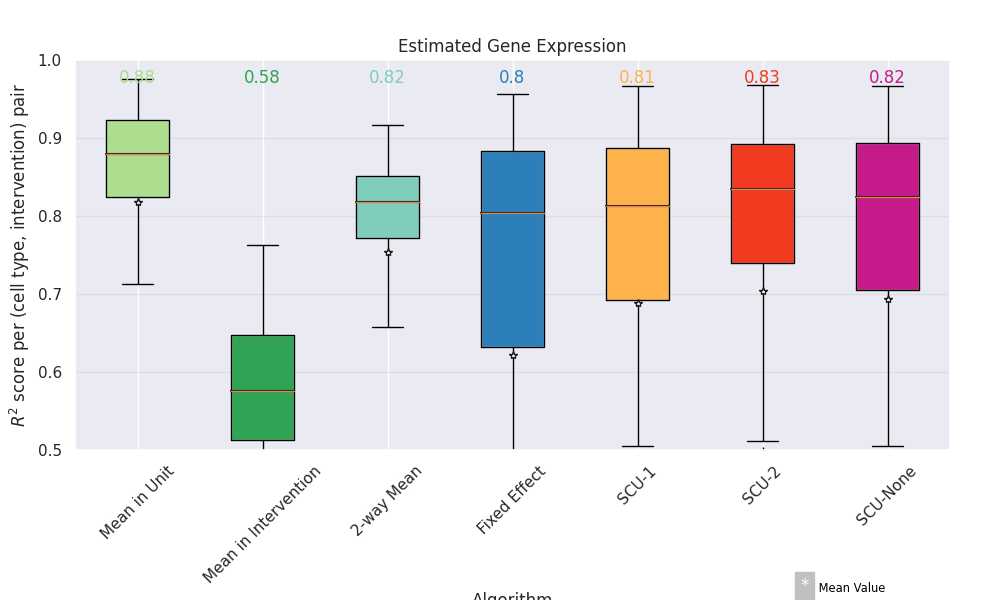
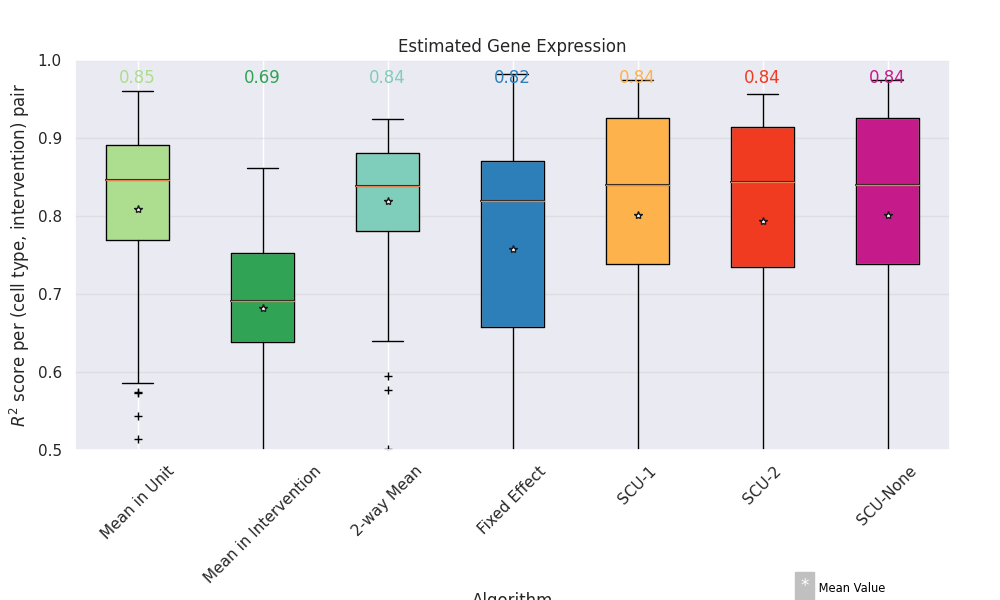
minor

diff --git a/src/algorithms2.py b/src/algorithms2.py
@@ -22,8 +22,10 @@ def impute_unit_mean(df, targets: pd.MultiIndex):
     targets = targets.sortlevel('unit')[0]
     units = Counter(targets.get_level_values('unit'))
     unit_means = df.groupby(level='unit').mean()
+    # if any target units *don't* have any samples in `df`, then use the average over all cells
     unit_means = fill_missing_means(unit_means, df.mean(), set(units) - set(unit_means.index))
 
+    # build an array to hold the correct number of copies of each unit mean
     imputed_data = np.zeros((len(targets), df.shape[1]))
     ix = 0
     for unit, num_ivs in units.items():
@@ -31,7 +33,7 @@ def impute_unit_mean(df, targets: pd.MultiIndex):
         ix += num_ivs
 
     imputed_df = pd.DataFrame(imputed_data, index=targets, columns=df.columns)
-    imputed_df.update(df)
+    # imputed_df.update(df)
 
     imputed_df.sort_index(inplace=True)
     return imputed_df
@@ -50,7 +52,7 @@ def impute_intervention_mean(df, targets: pd.MultiIndex):
         ix += num_units
 
     imputed_df = pd.DataFrame(imputed_data, index=targets, columns=df.columns)
-    imputed_df.update(df)
+    # imputed_df.update(df)
 
     imputed_df.sort_index(inplace=True)
     return imputed_df

diff --git a/evaluation/vary_perturbation_block.py b/evaluation/vary_perturbation_block.py
@@ -6,8 +6,8 @@ lp = LineProfiler()
 algs = []
 
 
-for pert_start in [0]:
-    pm = PredictionManager(0, 10, pert_start, pert_start+20, name='level2_common')
+for pert_start in [100, 500, 1000]:
+    pm = PredictionManager(0, None, pert_start, pert_start+100, name='level2_common')
     pm.predict(impute_unit_mean)
     pm.predict(impute_intervention_mean)
     pm.predict(impute_two_way_mean)

diff --git a/evaluation/helpers/prediction_manager2.py b/evaluation/helpers/prediction_manager2.py
@@ -89,7 +89,6 @@ class PredictionManager:
                     targets = self.gene_expression_df.iloc[test_ixs].index
                     df = alg(training_df, targets, **kwargs)
                     df = df.loc[targets]
-                    print(df.index == targets)
 
                     # save the results
                     self._predictions[full_alg_name].append(df)

diff --git a/scratch/compare_old_data.py b/scratch/compare_old_data.py
@@ -14,3 +14,5 @@ print(f"old # units: {len(old_units)}")
 print(f"new # units: {len(new_units)}")
 print(f"old # ivs: {len(old_ivs)}")
 print(f"new # ivs: {len(new_ivs)}")
+print(f"difference in units: {len(old_units.symmetric_difference(new_units))}")
+print(f"difference in ivs: {len(old_ivs.symmetric_difference(new_ivs))}")
